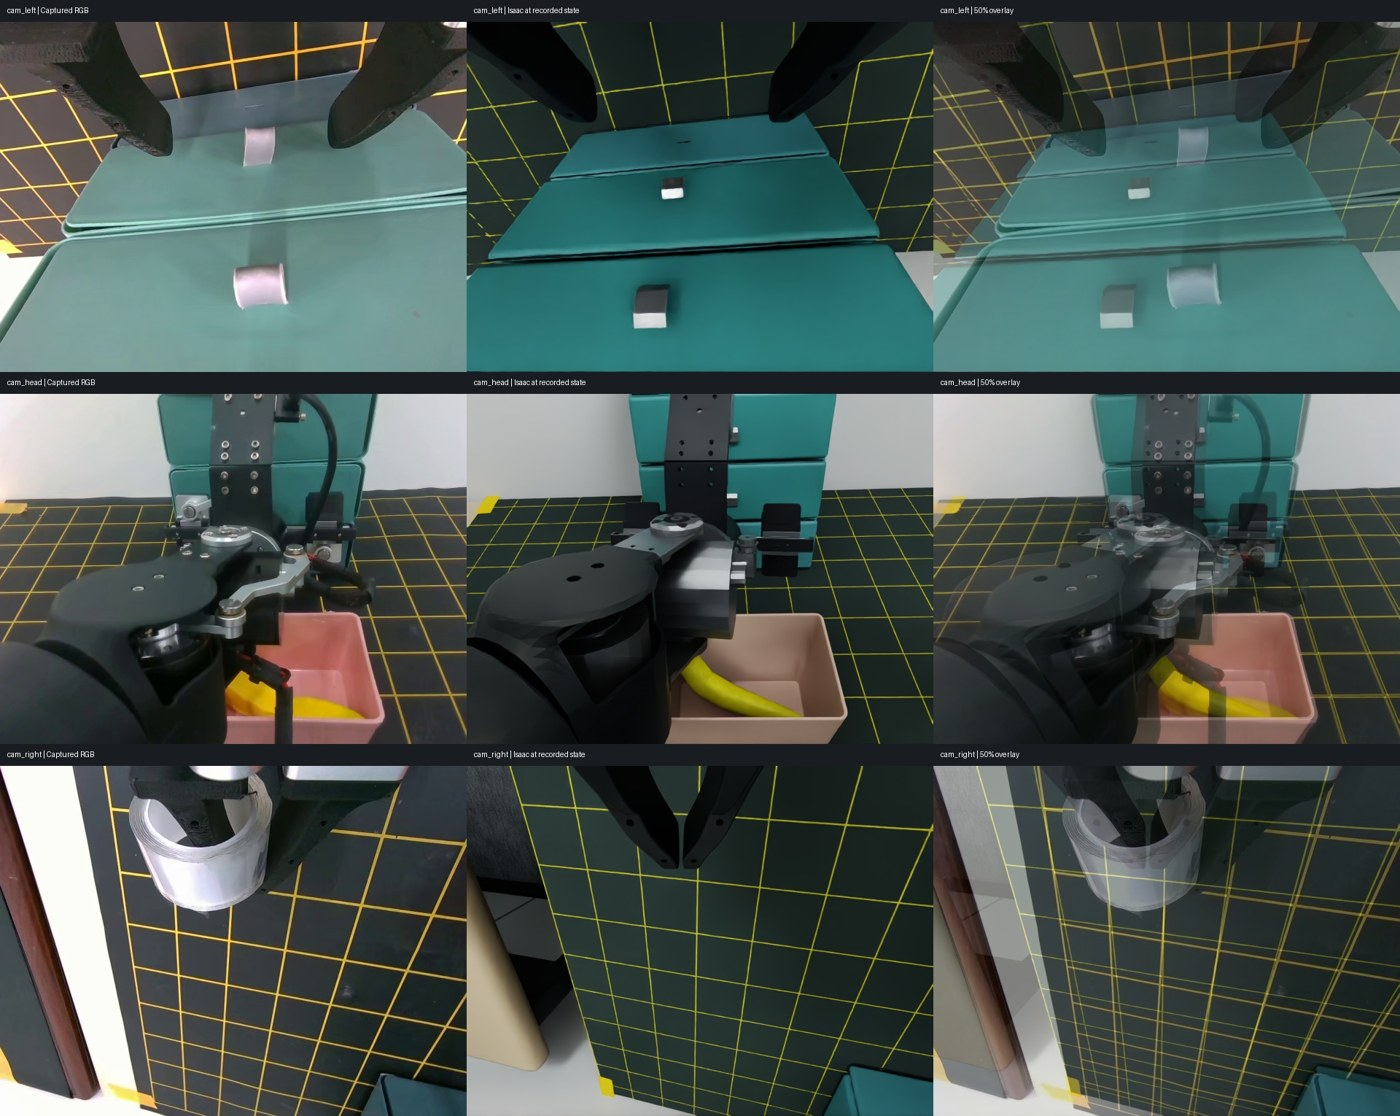
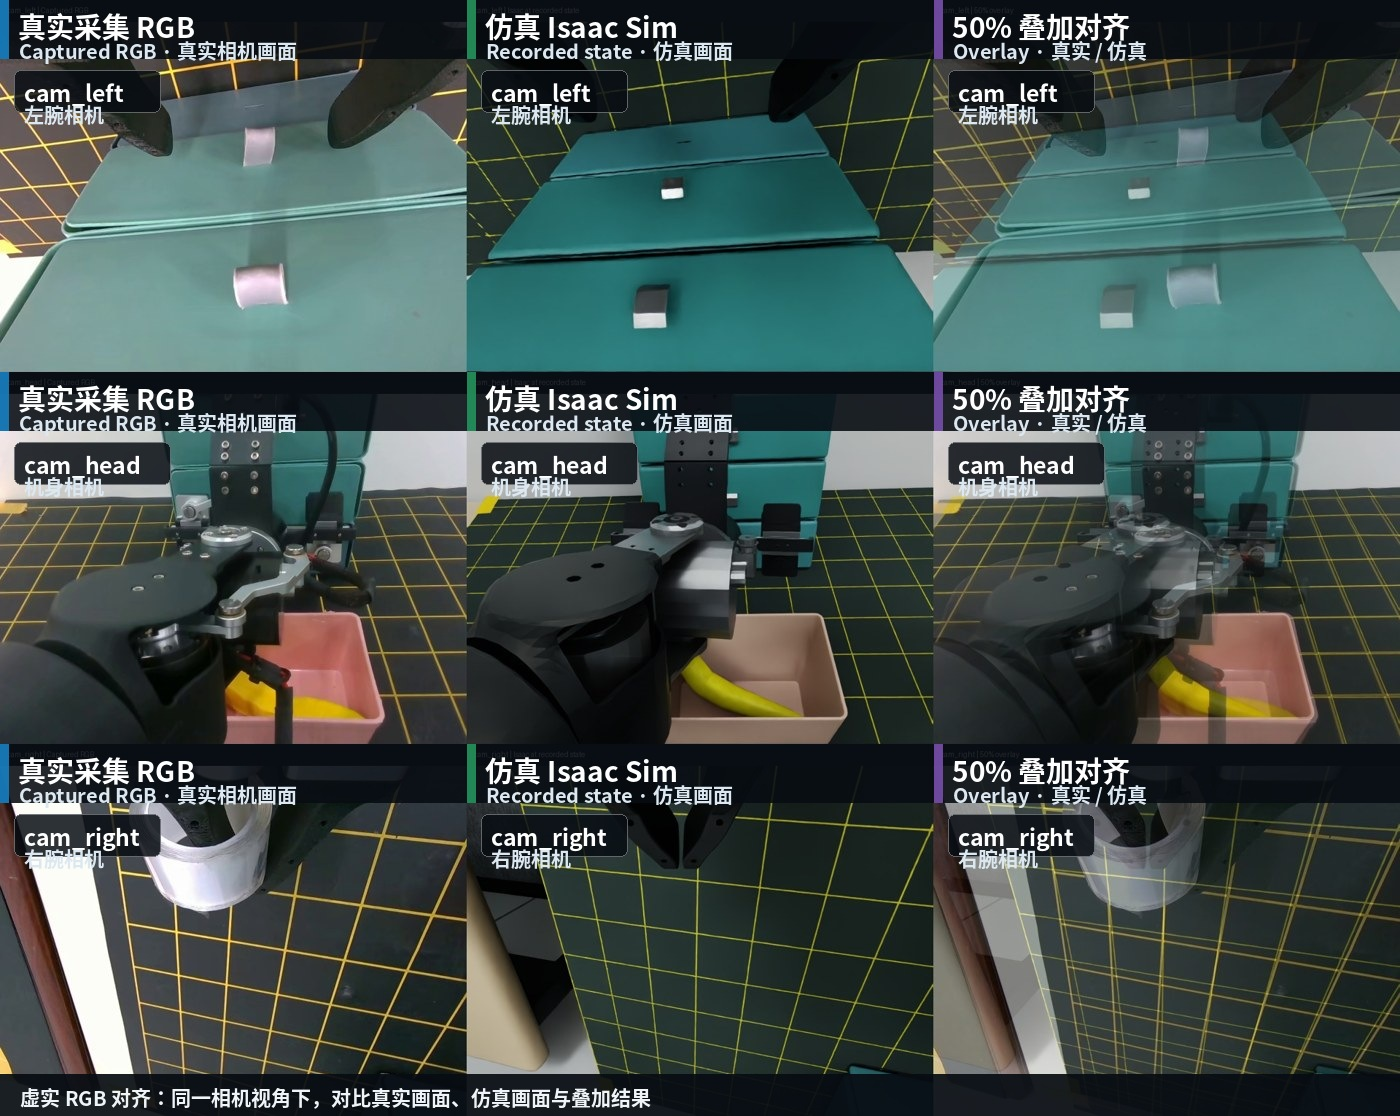
标注虚实对齐相机视角

diff --git a/index.html b/index.html
@@ -13,7 +13,7 @@
 <ol class="project-route" aria-label="仿真项目的工作流程"><li><a href="#office"><span>01</span>场景搭建</a></li><li><a href="#alignment"><span>02</span>虚实对齐</a></li><li><a href="#vr"><span>03</span>示范采集</a></li><li><a href="#policy"><span>04</span>策略验证</a></li></ol>
 <div class="work-grid"><article class="work-card" id="office">
  <div class="work-media"><video class="" controls playsinline preload="none" poster="assets/posters/office-tour.jpg" aria-label="办公室仿真场景漫游"><source src="assets/media/office-tour.mp4?v=licensed-music-20261023" type="video/mp4">你的浏览器暂不支持视频播放。<a href="assets/media/office-tour.mp4?v=licensed-music-20261023">打开视频</a></video></div><div class="work-copy"><p class="kicker">01 / 场景搭建</p><h3>把工作台与房间搬进仿真</h3><p>从六张办公室照片开始，在 Blender 中重建房间，再接入 OpenArmX 双臂、相机与桌面物体。慢慢补上抽屉、碰撞和夹爪这些细节，让场景能够用于后续遥操作和策略实验。</p><p class="media-caption">办公室场景漫游 · 40 秒</p><a class="project-detail-link" href="assets/images/reconstruction.jpg" target="_blank" rel="noopener">查看 Blender 房间全景 ↗</a><div class="tags"><span>Blender</span><span>Isaac Sim</span><span>场景重建</span></div></div></article><article class="work-card" id="alignment">
- <div class="work-media"><a href="assets/images/alignment.jpg" target="_blank" rel="noopener"><img src="assets/images/alignment.jpg" alt="真实相机图像、仿真图像和叠加对照" loading="lazy" width="1400" height="1050"></a></div><div class="work-copy"><p class="kicker">02 / 虚实对齐</p><h3>对照真实画面，校准观察视角</h3><p>把真实关节姿态在仿真中重放，对照机身与腕部相机的图像。用并排画面检查桌面位置、机器人姿态与相机视角，逐步修正场景和传感器布局。</p><p class="media-caption">真实 / 仿真 / 叠加对照 · 点击查看大图</p><div class="tags"><span>RGB 对齐</span><span>状态重放</span><span>相机配置</span></div></div></article><article class="work-card" id="vr">
+ <div class="work-media"><a href="assets/images/alignment.jpg" target="_blank" rel="noopener"><img src="assets/images/alignment.jpg" alt="虚实 RGB 对齐图：三行分别为左腕、机身、右腕相机；三列分别为真实采集 RGB、Isaac Sim 仿真和 50% 叠加对齐" loading="lazy" width="1400" height="1116"></a></div><div class="work-copy"><p class="kicker">02 / 虚实对齐</p><h3>对照真实画面，校准观察视角</h3><p>把真实关节姿态在仿真中重放，对照机身与腕部相机的图像。用并排画面检查桌面位置、机器人姿态与相机视角，逐步修正场景和传感器布局。</p><p class="media-caption">三行：左腕 / 机身 / 右腕相机；三列：真实 RGB / Isaac Sim 仿真 / 50% 叠加对齐 · 点击查看大图</p><div class="tags"><span>RGB 对齐</span><span>状态重放</span><span>相机配置</span></div></div></article><article class="work-card" id="vr">
  <div class="work-media"><video class="" controls playsinline preload="none" poster="assets/posters/vr-data.jpg" aria-label="VR 示范数据的机身相机片段"><source src="assets/media/vr-data.mp4?v=licensed-music-20261023" type="video/mp4">你的浏览器暂不支持视频播放。<a href="assets/media/vr-data.mp4?v=licensed-music-20261023">打开视频</a></video></div><div class="work-copy"><p class="kicker">03 / 示范采集</p><h3>用 VR 操作，把示范留下来</h3><p>用 Pico 头显控制仿真双臂，把机身和两只手腕的画面送回头显。把人的操作保存成带图像、关节状态与动作的 LeRobot 数据，让示范可以继续用于训练。</p><p class="media-caption">VR 数据集机身视角 · 30 秒节选</p><div class="tags"><span>VR 遥操作</span><span>三路 RGB</span><span>LeRobot</span></div></div></article><article class="work-card" id="policy">
  <div class="work-media"><div class="stacked-videos"><figure><video class="" controls playsinline preload="none" poster="assets/posters/smolvla.jpg" aria-label="SmolVLA 仿真运行记录"><source src="assets/media/smolvla.mp4?v=licensed-music-20261023" type="video/mp4">你的浏览器暂不支持视频播放。<a href="assets/media/smolvla.mp4?v=licensed-music-20261023">打开视频</a></video><figcaption>SmolVLA</figcaption></figure><figure><video class="" controls playsinline preload="none" poster="assets/posters/pi05.jpg" aria-label="π0.5 仿真运行短片，约 21 秒"><source src="assets/media/pi05.mp4?v=pi05-short-demo-20261023" type="video/mp4">你的浏览器暂不支持视频播放。<a href="assets/media/pi05.mp4?v=pi05-short-demo-20261023">打开视频</a></video><figcaption>π0.5</figcaption></figure></div></div><div class="work-copy"><p class="kicker">04 / 策略验证</p><h3>让模型接手，再观察执行</h3><p>在完成场景与数据接口之后，把 SmolVLA 和 π0.5 接入同一个仿真环境，从三路相机与关节状态生成动作。记录双臂、香蕉与抽屉的交互，观察策略在哪里犹豫、偏离，又在哪里需要更好的数据。</p><p class="media-caption">仿真运行记录；任务成功率尚未系统评估。</p><div class="tags"><span>SmolVLA</span><span>π0.5</span><span>策略诊断</span></div></div></article></div></section>
 <section class="algorithm-section" id="so101-project" aria-labelledby="algorithm-title"><div class="wrap"><div class="section-heading"><div><p class="eyebrow">项目 03 / SO-101 策略实验</p><h2 id="algorithm-title">在单臂任务里，比较学习方法。</h2></div><p>模仿学习 · 强化学习 · 评测记录</p></div><p class="chapter-intro">除了双臂系统，我也在 SO-101 的抓取与形状放置任务上做算法实验。把问题收敛到一个明确任务，观察不同策略和训练方法怎样改变机器人的行为。</p><article class="work-card" id="so101">

diff --git a/CONTENT_SOURCES.md b/CONTENT_SOURCES.md
@@ -18,6 +18,8 @@
 | 模型与 RL 源码学习 | my-help/*.md、sb3-learning-lab/阶段*学习详解.md | 学习与实现分析，不等同于提出算法 |
 | 半自动抓取 | semi_auto_match_26/scripts/grasp.py、teleop.py | 依据已有代码描述练习内容，未补造实测结果 |
 
+虚实对齐图已在页面资源中加入高对比标注：三行依次为 `cam_left` 左腕相机、`cam_head` 机身相机、`cam_right` 右腕相机；三列依次为真实采集 RGB、Isaac Sim 仿真画面和 50% 叠加对齐结果。原始对照内容保持不变，只增加可读性标识。
+
 ## 校徽
 
 来自学校官网的校名组合标识，裁出左侧校徽，按透明度生成单色显示版本。页面只显示校徽与专业，不使用横向校名字标。
